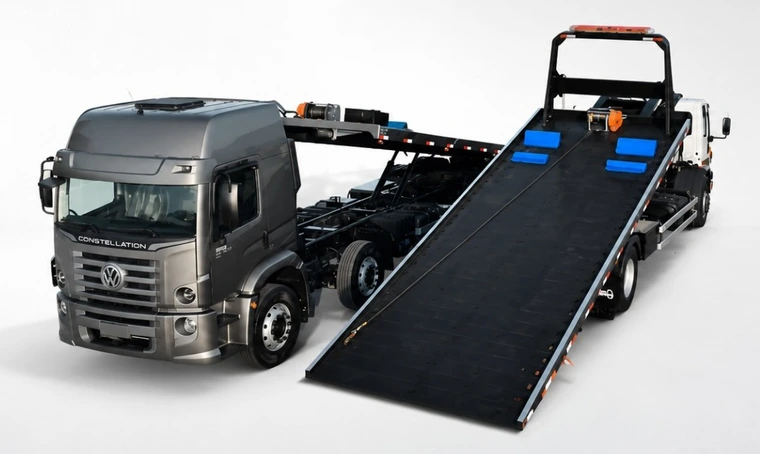
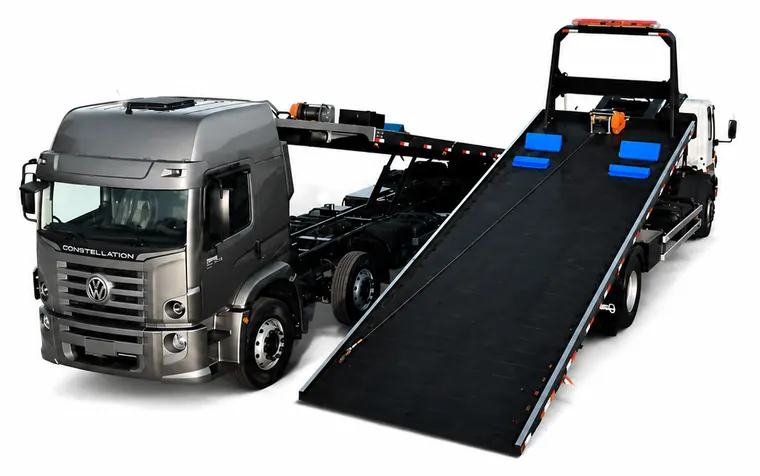
Hero: nova imagem MAINHERO, anti-colisão responsiva e otimização webp
- Nova arte MAINHERO (caminhão sobre branco opaco) encaixada sem borda:
  fundo do hero vira #FEFEFE plano = cor exata do fundo da foto, em
  todos os breakpoints. Imagem aparada e convertida em webp.
- Anti-colisão com o texto validada via Playwright em todas as telas do
  projeto (375 → 2560): desktop texto 41vw / caminhão 53vw; ultra-wide
  (1600+) caminhão 48vw ancorado à direita (não invade o container
  travado do texto).
- Performance: mobile reexportado mais leve (28 KB, ~-44%); desktop em
  1500px retina, qualidade alta, para nitidez.

diff --git a/css/bundle.css b/css/bundle.css
@@ -6635,7 +6635,7 @@ body {
    Inverte o hero de preto → branco sem tocar nas regras base.
 ══════════════════════════════════════════════════════ */
 .hero--light {
-  background: radial-gradient(135% 118% at 70% 26%, #F8F9FB 0%, #ECEEF1 58%, #E2E5EA 100%);
+  background: #FEFEFE;
 }
 .hero--light .hero-title__line:first-child { color: var(--color-text-dark); }
 .hero--light .hero-subtitle { color: var(--color-bg-light); }
@@ -6656,13 +6656,11 @@ body {
 .hero--light .hero-img {
   filter: none;
   object-fit: contain;
-  -webkit-mask-image: linear-gradient(to right, transparent 0%, #000 20%, #000 100%);
-  mask-image: linear-gradient(to right, transparent 0%, #000 20%, #000 100%);
 }
 
 /* Tablet (768–1023): empilha — texto em cima, imagem cheia embaixo. Sem sobreposição. */
 @media (min-width: 768px) and (max-width: 1023px) {
-  .hero--light { min-height: auto; background: #F3F4F6; }
+  .hero--light { min-height: auto; background: #FEFEFE; }
   .hero--light .hero-inner { gap: var(--space-6); padding-block: var(--space-10) var(--space-12); }
   .hero--light .hero-media { position: relative; inset: auto; width: 100%; transform: none; order: 2; }
   .hero--light .hero-stage { position: relative; inset: auto; width: 100%; height: auto; aspect-ratio: 16 / 9; }
@@ -6670,25 +6668,25 @@ body {
     position: relative; inset: auto; right: auto; bottom: auto;
     width: 100%; height: 100%;
     object-fit: contain; object-position: center bottom;
-    -webkit-mask-image: radial-gradient(120% 116% at 50% 56%, #000 60%, transparent 90%);
-    mask-image: radial-gradient(120% 116% at 50% 56%, #000 60%, transparent 90%);
   }
 }
 
 /* Desktop: coluna de texto capada à esquerda; caminhão na direita sem invadir. */
 @media (min-width: 1024px) {
-  .hero--light .hero-content { max-width: 44vw; }
-  .hero--light .hero-img { width: 52vw; right: -2%; bottom: 2%; }
+  .hero--light .hero-content { max-width: 41vw; }
+  .hero--light .hero-img { width: 53vw; right: -2%; bottom: 2%; }
 }
 
 @media (min-width: 1600px) {
+  /* container do texto fica travado/centralizado; imagem não pode crescer
+     (vw) ou invade o texto. Mantém ~50vw e alinha à direita do container. */
   .hero--light .hero-content { max-width: 40vw; }
-  .hero--light .hero-img { width: 56vw; }
+  .hero--light .hero-img { width: 48vw; right: 0; }
 }
 
 @media (max-width: 767px) {
   /* fundo plano que casa com o cinza-claro da foto -> sem "caixa" */
-  .hero--light { background: #F3F4F6; }
+  .hero--light { background: #FEFEFE; }
   /* subtítulo de volta no mobile */
   .hero--light .hero-subtitle { display: block; margin-top: var(--space-2); }
   .hero--light .hero-stage { aspect-ratio: 16 / 10; }
@@ -6697,9 +6695,6 @@ body {
     object-fit: contain;
     object-position: center bottom;
     transform: none;
-    /* fade nas bordas funde a imagem ao fundo da seção */
-    -webkit-mask-image: radial-gradient(126% 112% at 50% 58%, #000 58%, transparent 90%);
-    mask-image: radial-gradient(126% 112% at 50% 58%, #000 58%, transparent 90%);
   }
 }
 

diff --git a/css/components/hero.css b/css/components/hero.css
@@ -461,7 +461,7 @@
    HERO CLARO (home) — override escopado em .hero--light
 ══════════════════════════════════════════════════════ */
 .hero--light {
-  background: radial-gradient(135% 118% at 70% 26%, #F8F9FB 0%, #ECEEF1 58%, #E2E5EA 100%);
+  background: #FEFEFE;
 }
 .hero--light .hero-title__line:first-child { color: var(--color-text-dark); }
 .hero--light .hero-subtitle { color: var(--color-bg-light); }
@@ -481,13 +481,11 @@
 .hero--light .hero-img {
   filter: none;
   object-fit: contain;
-  -webkit-mask-image: linear-gradient(to right, transparent 0%, #000 20%, #000 100%);
-  mask-image: linear-gradient(to right, transparent 0%, #000 20%, #000 100%);
 }
 
 /* Tablet (768–1023): empilha — texto em cima, imagem cheia embaixo. */
 @media (min-width: 768px) and (max-width: 1023px) {
-  .hero--light { min-height: auto; background: #F3F4F6; }
+  .hero--light { min-height: auto; background: #FEFEFE; }
   .hero--light .hero-inner { gap: var(--space-6); padding-block: var(--space-10) var(--space-12); }
   .hero--light .hero-media { position: relative; inset: auto; width: 100%; transform: none; order: 2; }
   .hero--light .hero-stage { position: relative; inset: auto; width: 100%; height: auto; aspect-ratio: 16 / 9; }
@@ -495,26 +493,23 @@
     position: relative; inset: auto; right: auto; bottom: auto;
     width: 100%; height: 100%;
     object-fit: contain; object-position: center bottom;
-    /* fade nas bordas funde a imagem ao fundo */
-    -webkit-mask-image: radial-gradient(120% 116% at 50% 56%, #000 60%, transparent 90%);
-    mask-image: radial-gradient(120% 116% at 50% 56%, #000 60%, transparent 90%);
   }
 }
 
 /* Desktop: coluna de texto capada; caminhão na direita sem invadir. */
 @media (min-width: 1024px) {
-  .hero--light .hero-content { max-width: 44vw; }
-  .hero--light .hero-img { width: 52vw; right: -2%; bottom: 2%; }
+  .hero--light .hero-content { max-width: 41vw; }
+  .hero--light .hero-img { width: 53vw; right: -2%; bottom: 2%; }
 }
 
 @media (min-width: 1600px) {
   .hero--light .hero-content { max-width: 40vw; }
-  .hero--light .hero-img { width: 56vw; }
+  .hero--light .hero-img { width: 48vw; right: 0; }
 }
 
 @media (max-width: 767px) {
   /* fundo plano que casa com o cinza-claro da foto -> sem "caixa" */
-  .hero--light { background: #F3F4F6; }
+  .hero--light { background: #FEFEFE; }
   /* subtítulo de volta no mobile */
   .hero--light .hero-subtitle { display: block; margin-top: var(--space-2); }
   .hero--light .hero-stage { aspect-ratio: 16 / 10; }
@@ -523,7 +518,5 @@
     object-fit: contain;
     object-position: center bottom;
     transform: none;
-    -webkit-mask-image: radial-gradient(126% 112% at 50% 58%, #000 58%, transparent 90%);
-    mask-image: radial-gradient(126% 112% at 50% 58%, #000 58%, transparent 90%);
   }
 }